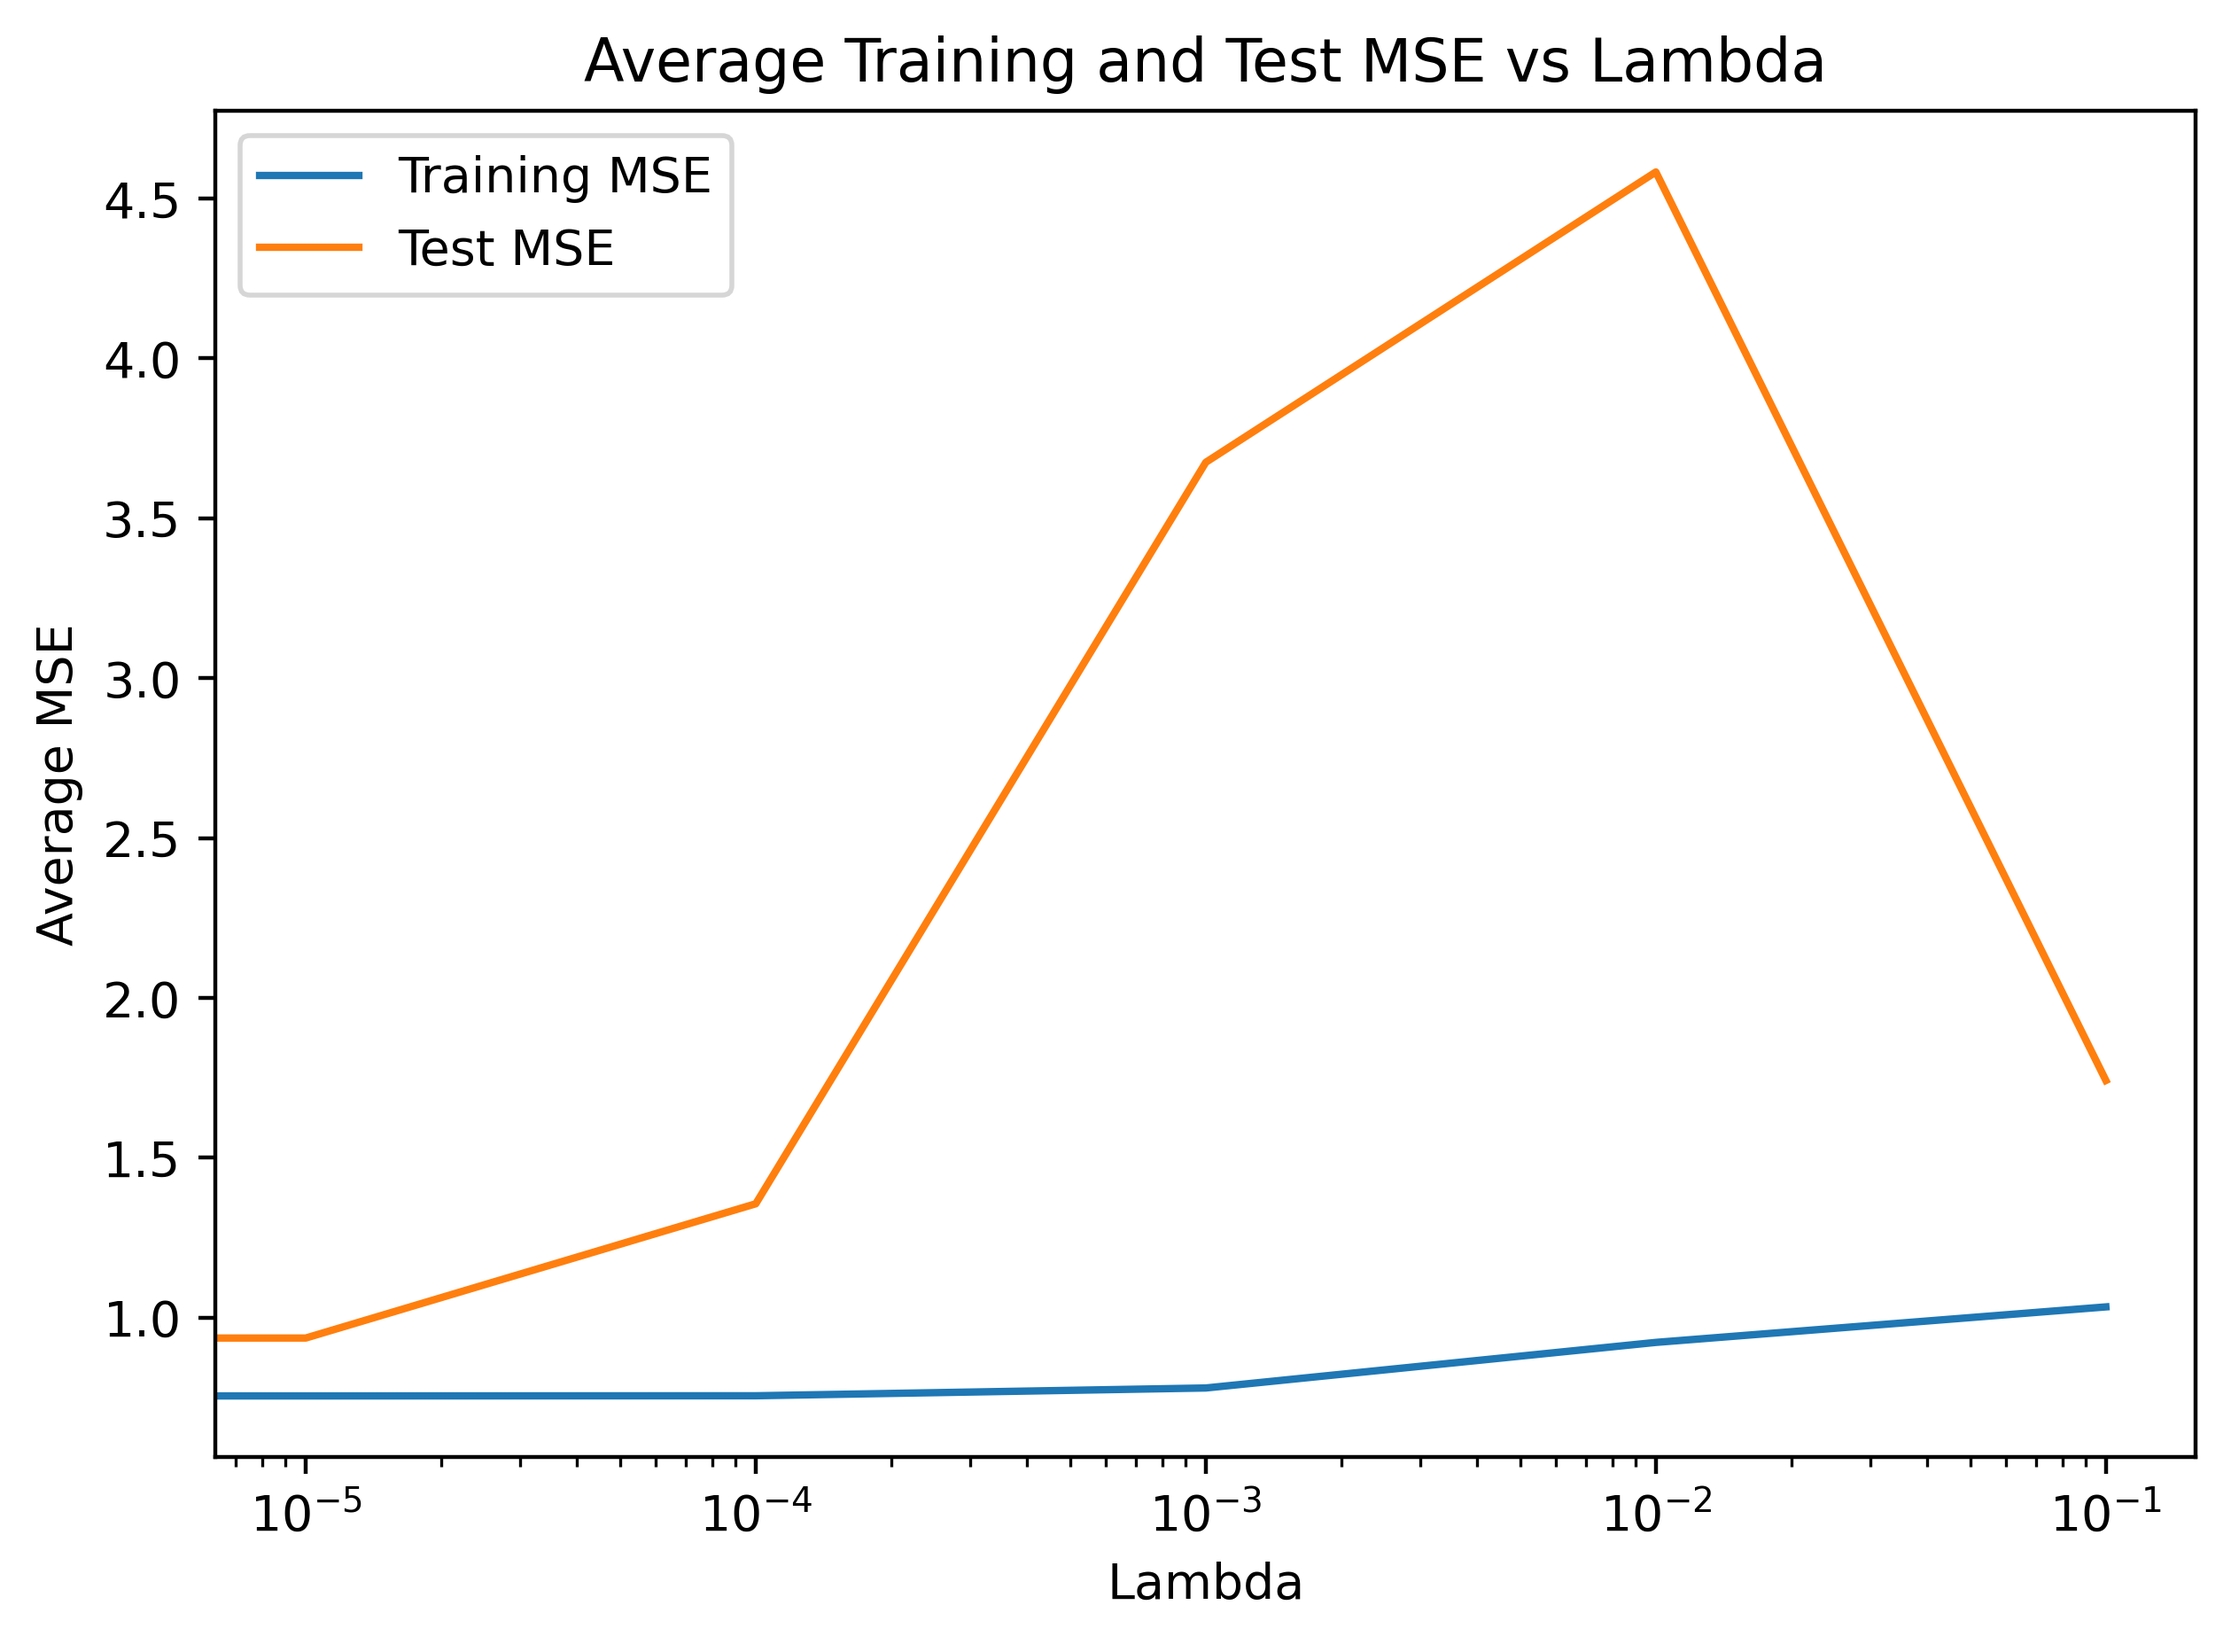
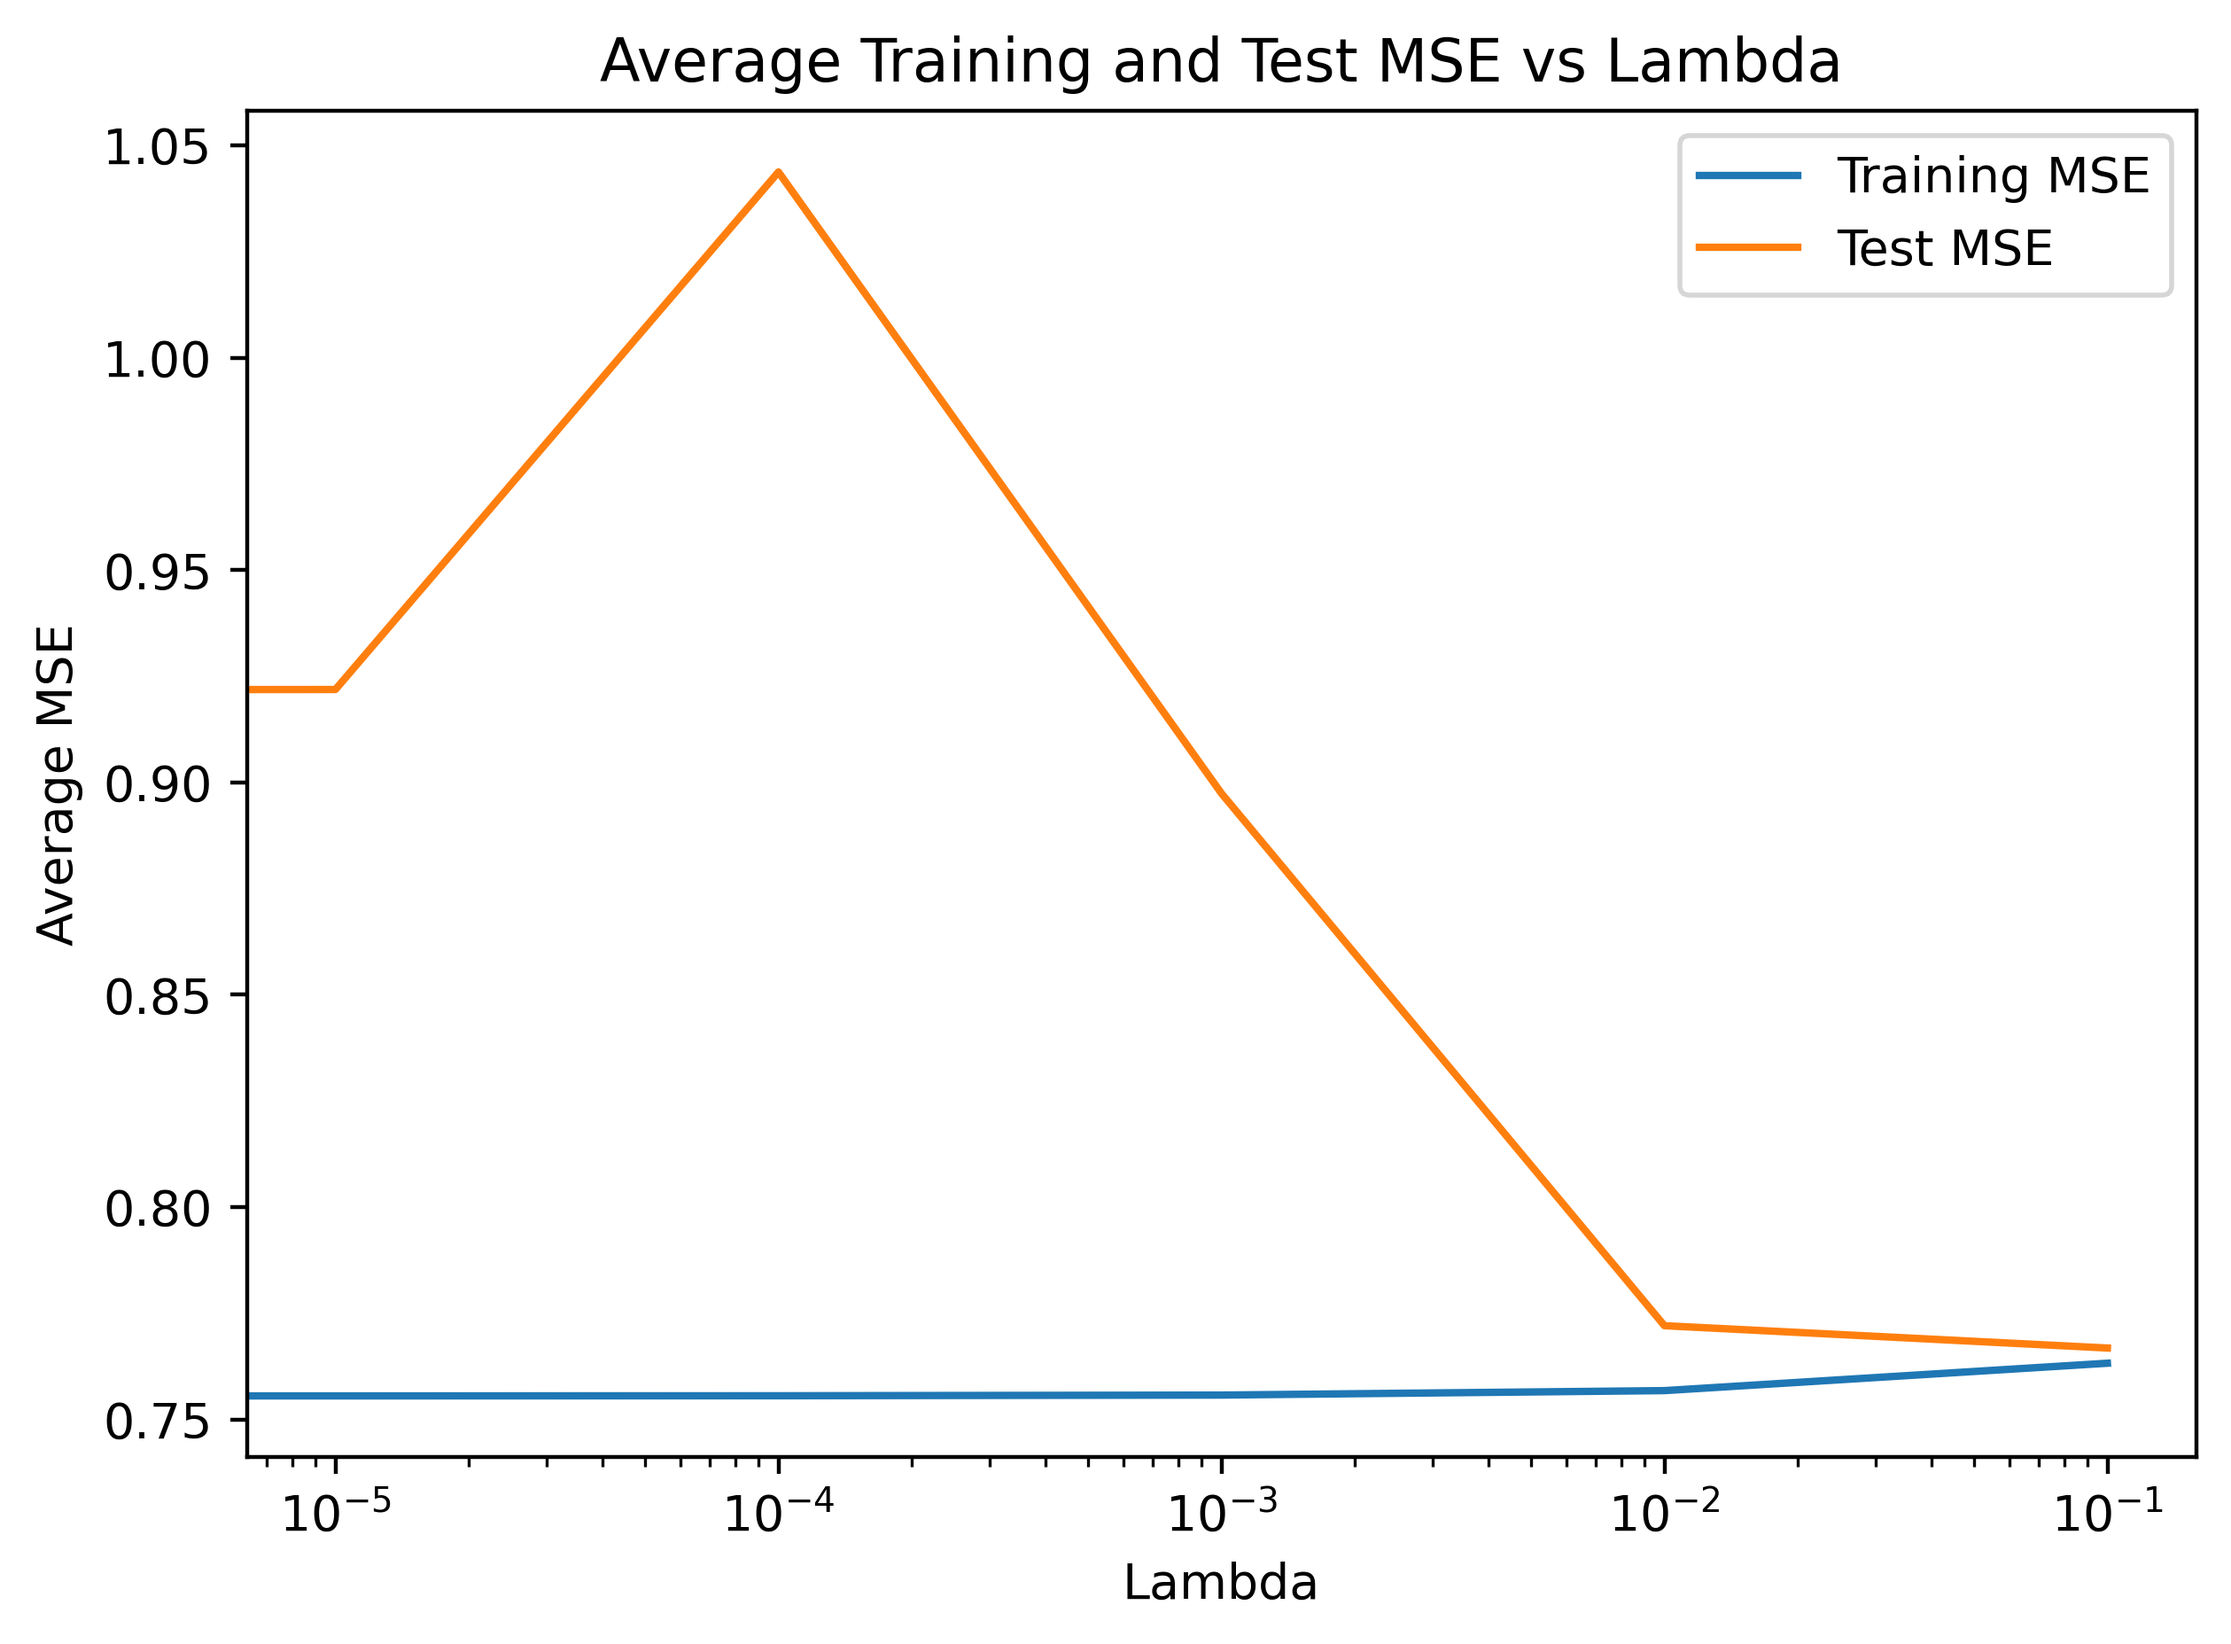
added intercept for the ridge portion

diff --git a/assignments/hw02/code/hw02.py b/assignments/hw02/code/hw02.py
@@ -47,6 +47,10 @@ for lam in lambdas:
         X_train, X_test = X.iloc[train_idx], X.iloc[test_idx]
         y_train, y_test = Y.iloc[train_idx], Y.iloc[test_idx]
 
+        #need to add a column on ones
+        X_train = np.column_stack([np.ones(len(X_train)), X_train])
+        X_test = np.column_stack([np.ones(len(X_test)),  X_test])
+
         #need to get N and p
         N,p = X_train.shape
 
@@ -54,8 +58,11 @@ for lam in lambdas:
         X_crossprod_N = (X_train.T @ X_train)/N
         X_cross_Y_N = (X_train.T @ y_train)/N
 
-        #LHS
-        LHS = X_crossprod_N + (lam*np.eye(p))
+        #LHS.  Don't penalize the intercept
+        P = (lam*np.eye(p))
+        P[0, 0] = 0.0
+
+        LHS = X_crossprod_N + P
 
         #solve
         #https://numpy.org/devdocs/reference/generated/numpy.linalg.solve.html
@@ -96,7 +103,7 @@ ridge_results = ridge_results.groupby("lambda").agg(
 
 #need this as a latex table
 formatted_summary = pd.DataFrame({
-    "Depth": ridge_results.index,
+    "Lambda": ridge_results.index,
 
     "Train R2": (
         ridge_results["train_R2_mean"].round(3).astype(str)
@@ -126,8 +133,6 @@ formatted_summary = pd.DataFrame({
         + ")"
     )
 })
-
-print(formatted_summary)
 
 #format for latex
 #using the column format option felt pretty slick
@@ -177,12 +182,12 @@ plt.close()
 #OLS regression with backwards elimination
 #https://scikit-learn.org/stable/modules/generated/sklearn.feature_selection.SequentialFeatureSelector.html
 
-#maybe pipelines? Avoid leaking test set to the train set?
+#maybe pipelines?
 #https://scikit-learn.org/stable/modules/generated/sklearn.pipeline.Pipeline.html
 #don't understand them well enough
 
-"""
-k_values = range(5, 60, 5)
+
+k_values = range(40, 60, 5)
 results = []
 
 for k in k_values:
@@ -245,7 +250,7 @@ for k in k_values:
 
 results_df = pd.DataFrame(results)
 print(results_df)
-"""
+
 
 #random forest regression
 #need to change back to 11
@@ -308,7 +313,7 @@ summary_table = table1.groupby("depth").agg(
 #need astrype(str).  Rounding also probably helps
 
 formatted_summary = pd.DataFrame({
-    "Depth": summary_table.index,
+    "Lambda": summary_table.index,
 
     "Train R2": (
         summary_table["train_r2_mean"].round(3).astype(str)

diff --git a/assignments/hw02/writeup/writeup_hw02.tex b/assignments/hw02/writeup/writeup_hw02.tex
@@ -83,7 +83,7 @@ Report results for the following models:
         \centering
         \begin{tabular}{ccccc}
             \toprule
-            Depth & Train R2 & Test R2 & Train MSE & Test MSE \\
+            Lambda & Train R2 & Test R2 & Train MSE & Test MSE \\
             \midrule
             0.000000 & 0.127 (0.001) & 0.028 (0.209) & 0.756 (0.004) & 0.842 (0.187) \\
             0.000010 & 0.127 (0.001) & -0.08 (0.451) & 0.756 (0.004) & 0.937 (0.399) \\
